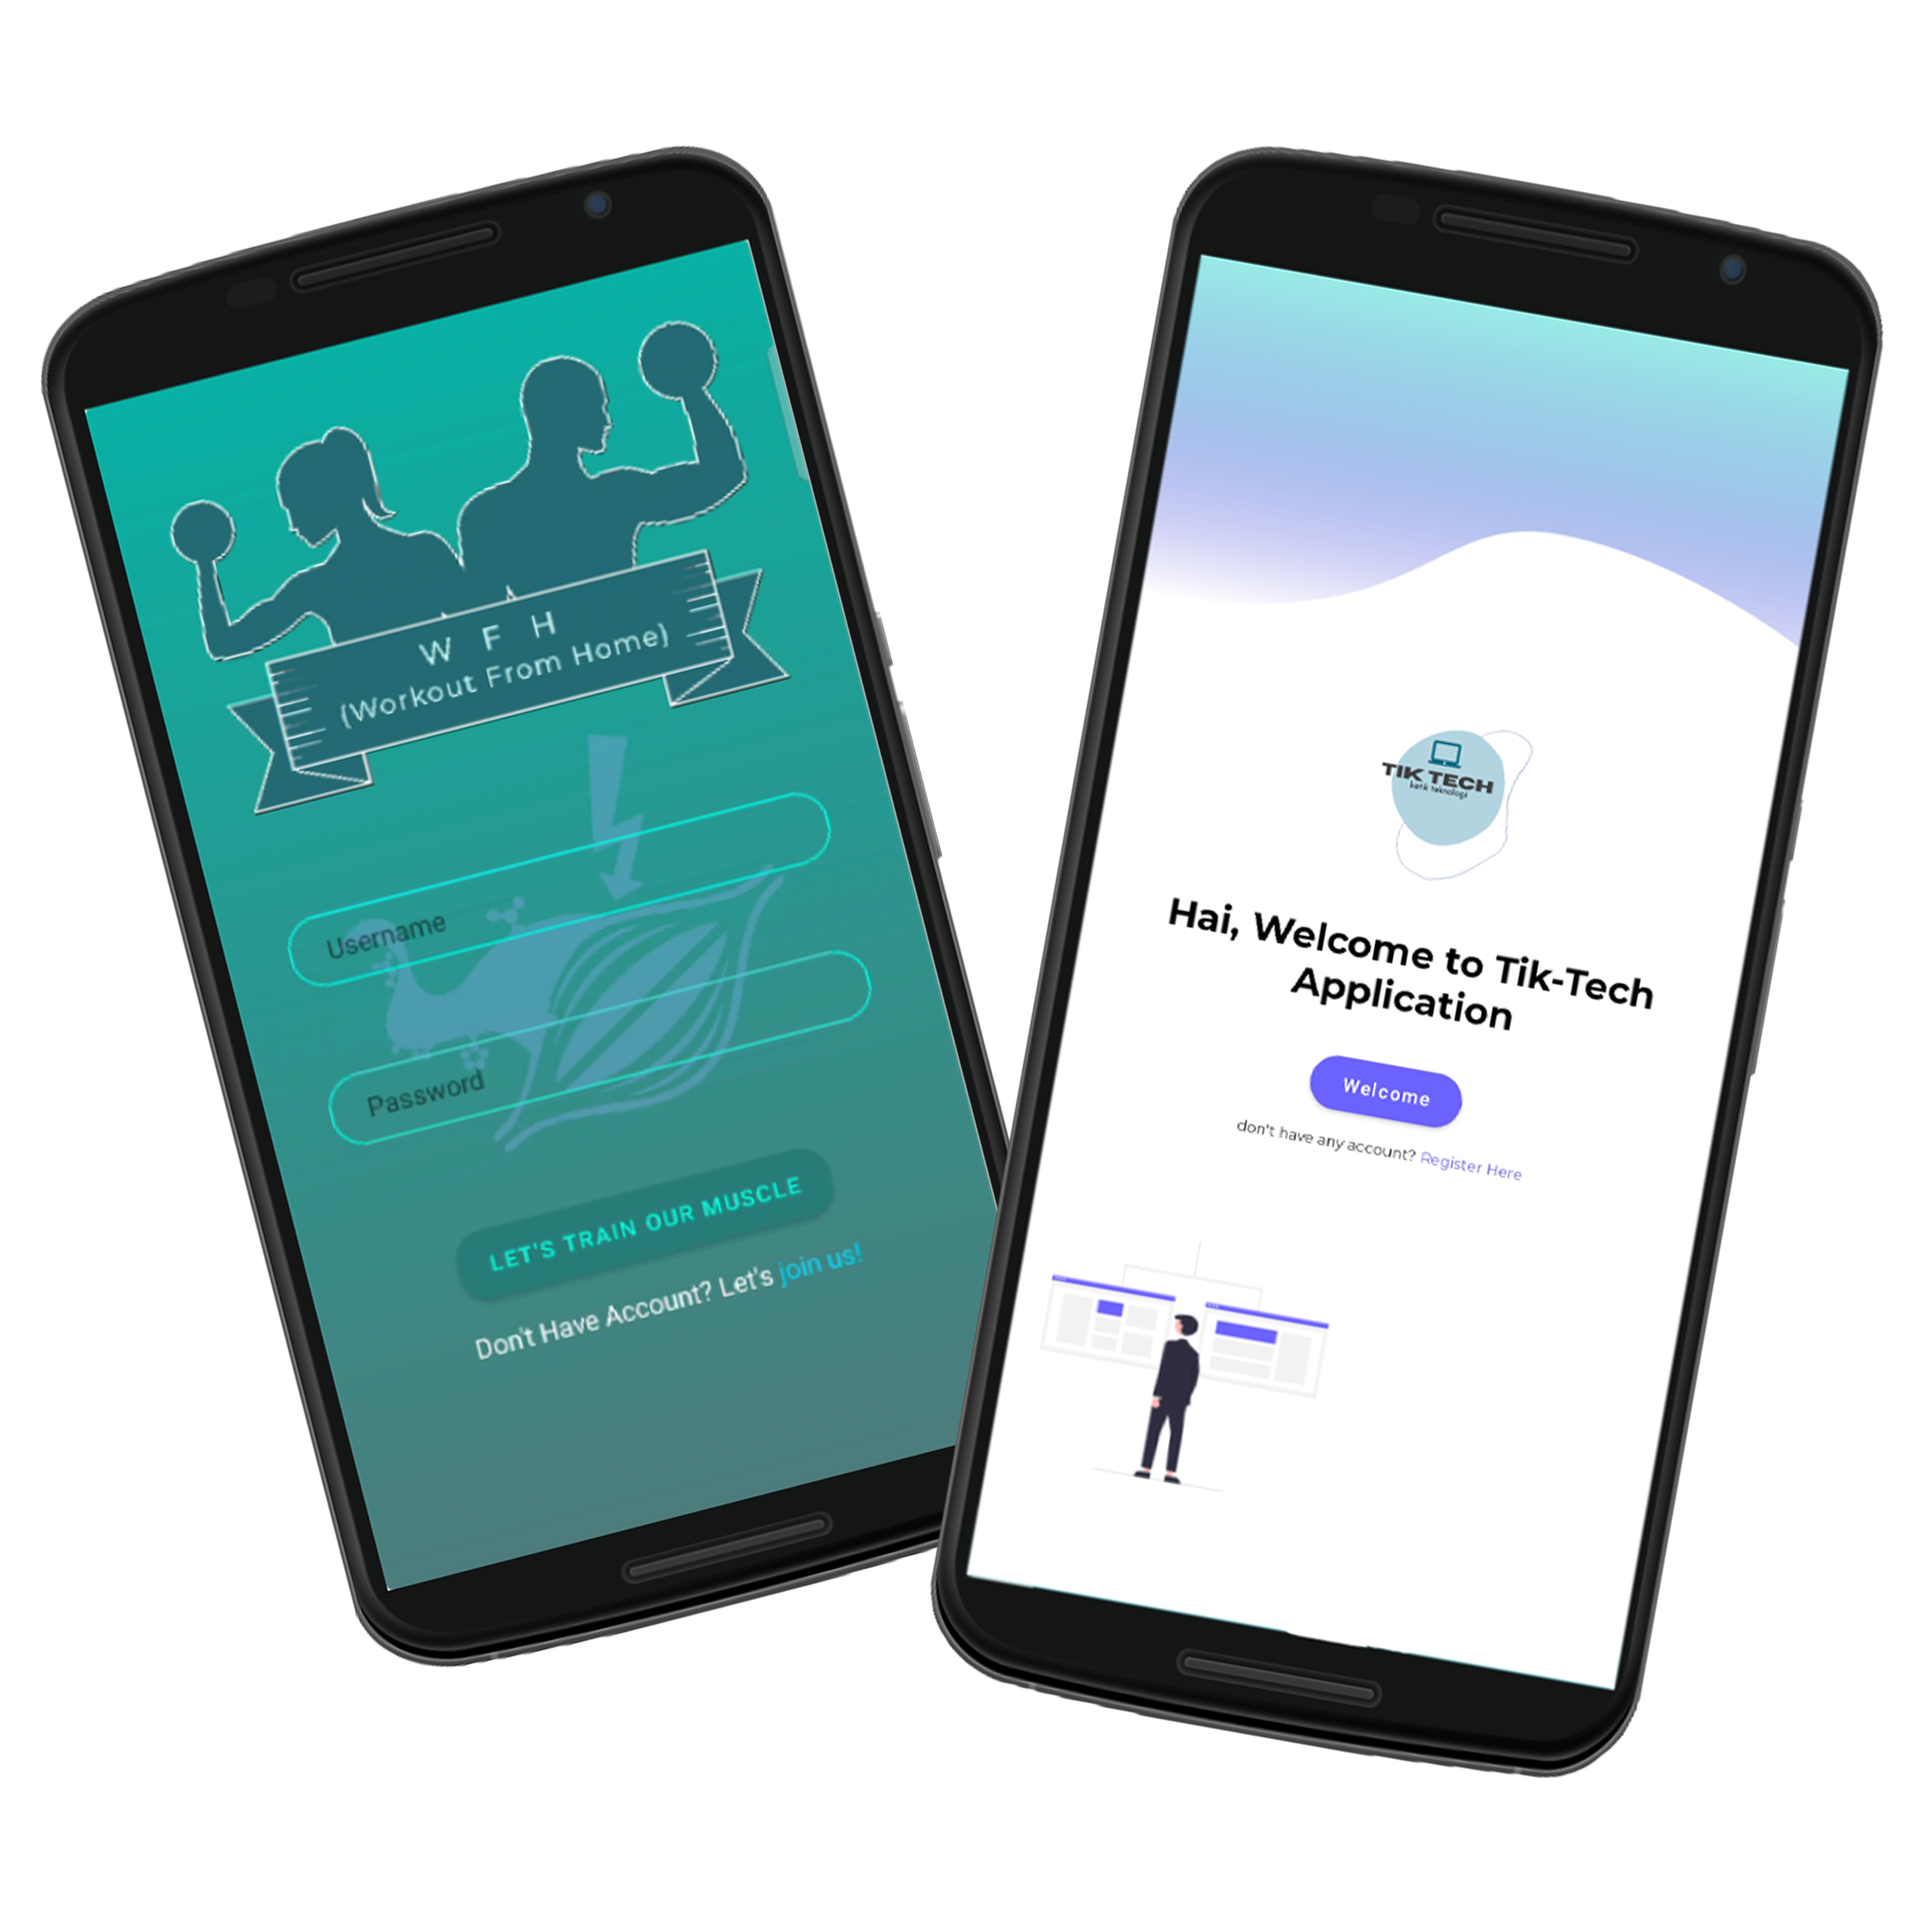
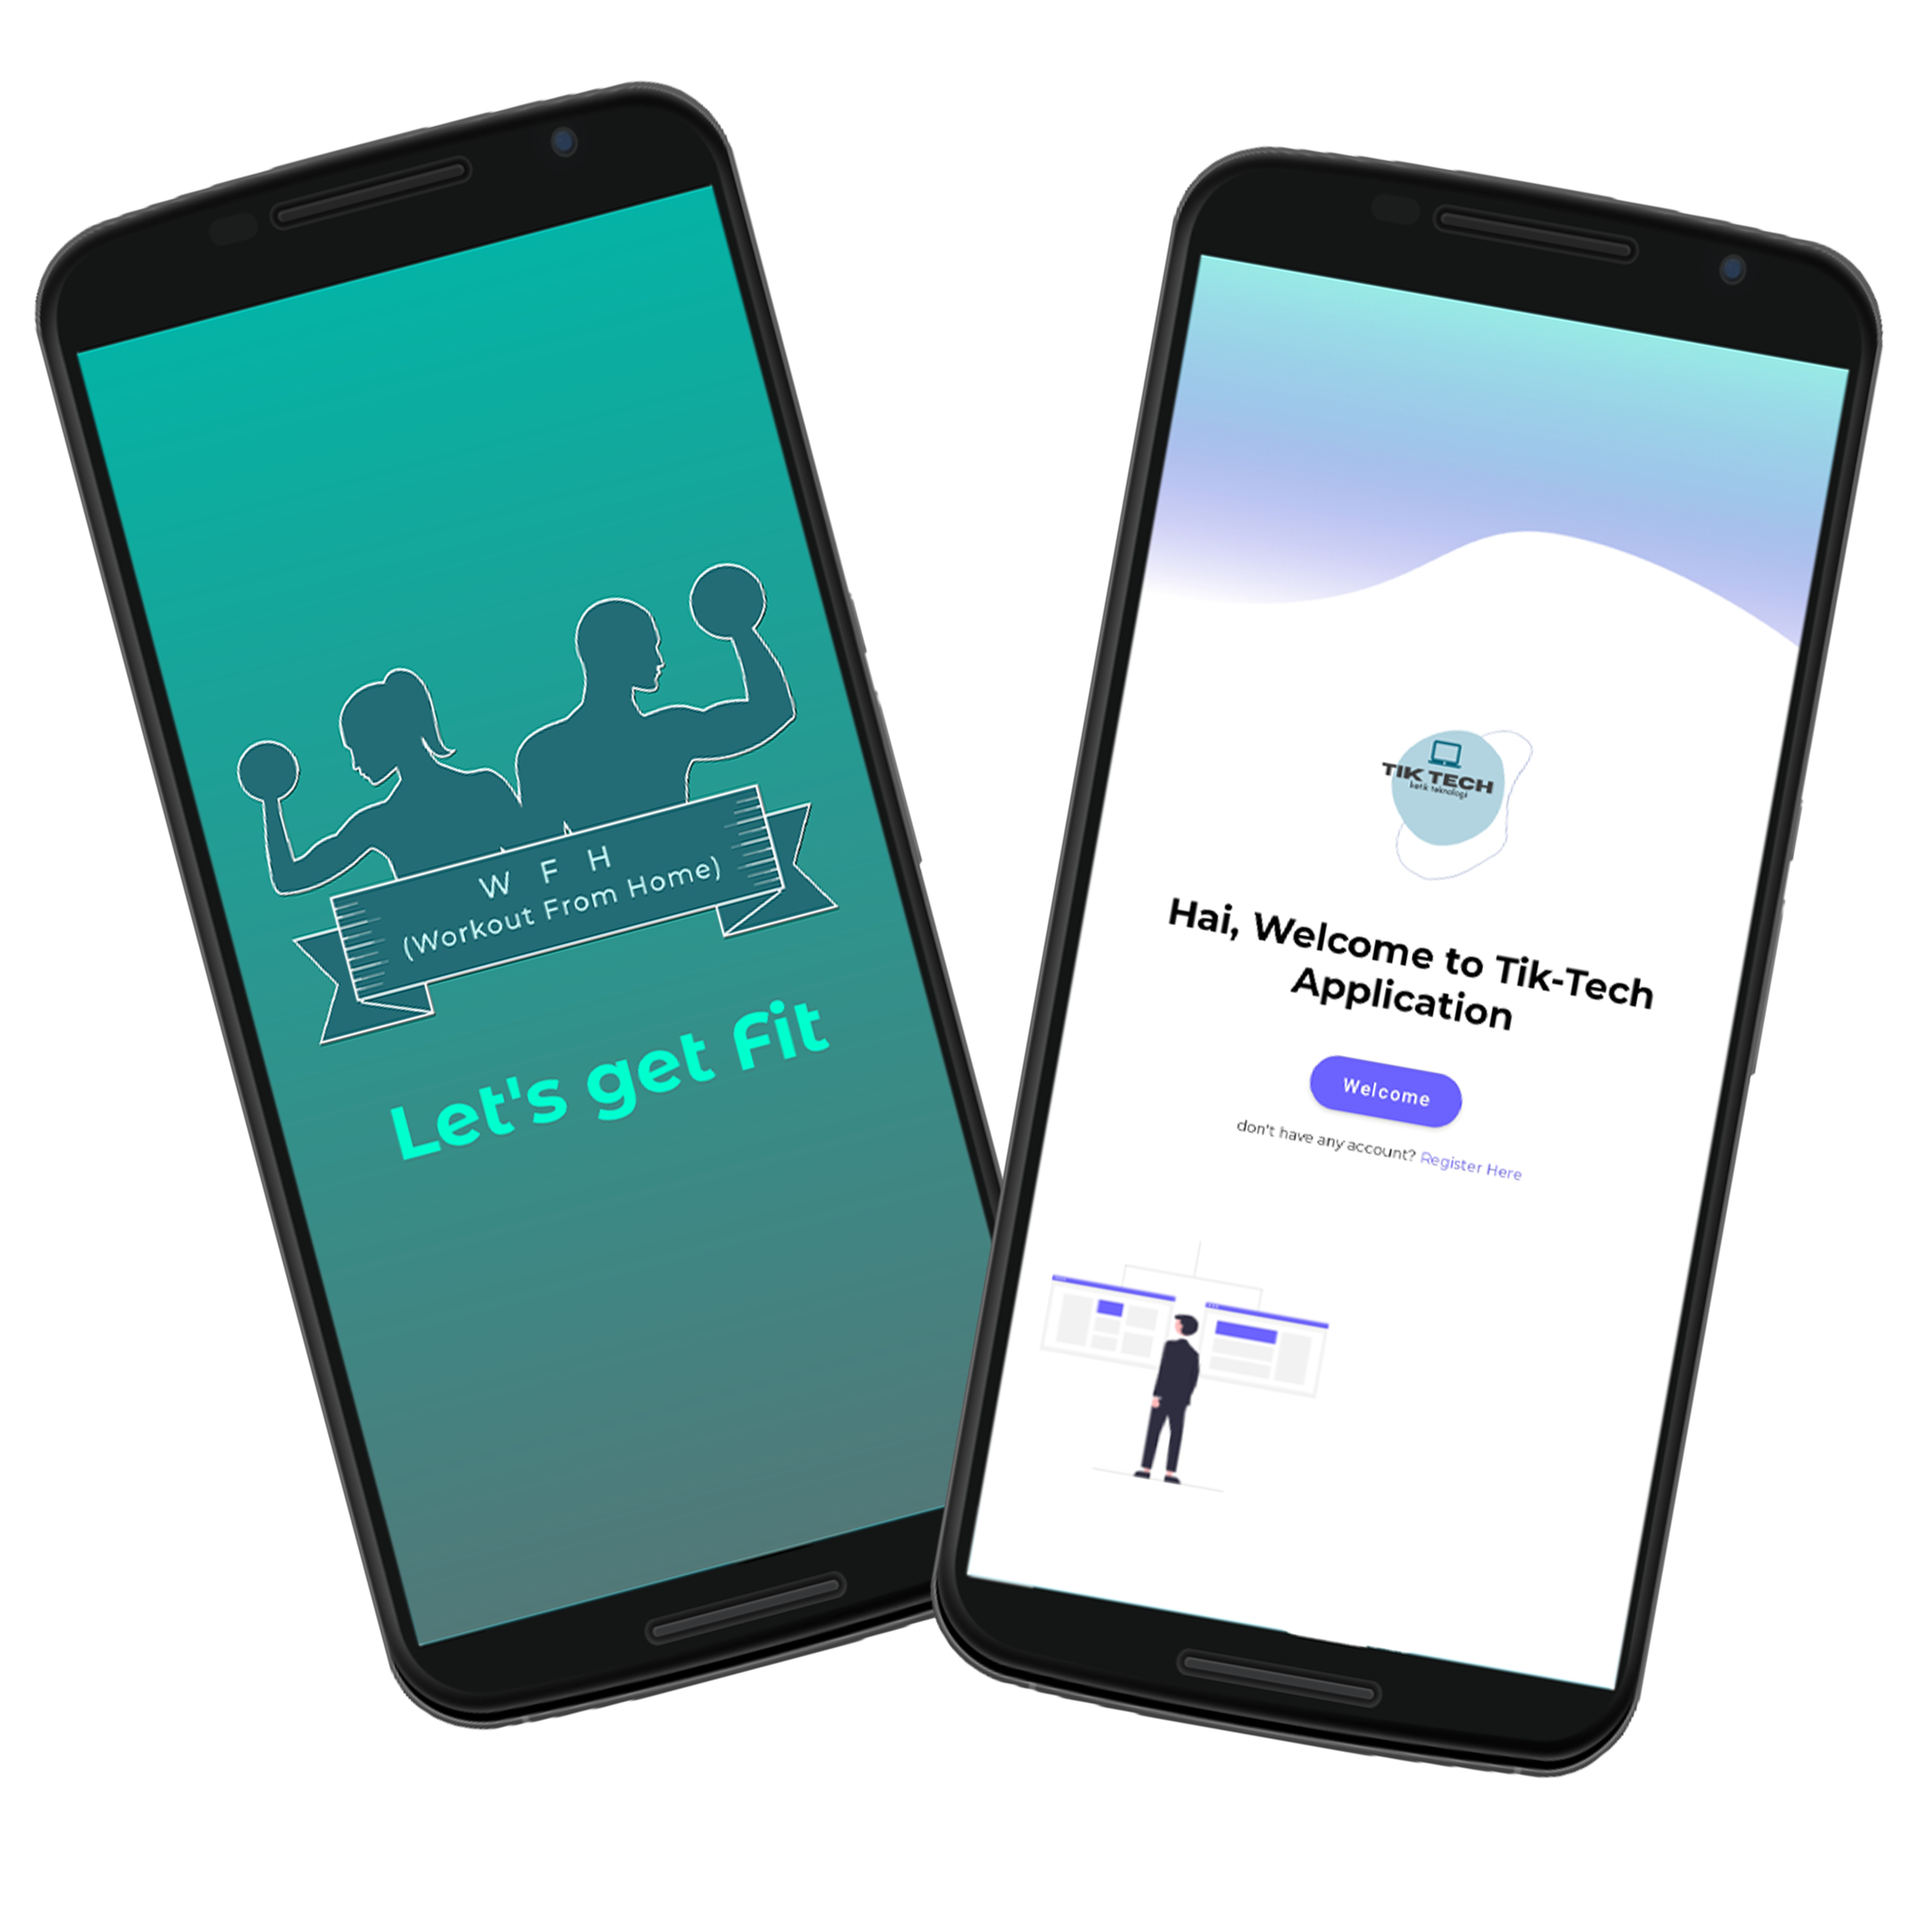
update

Changed region(s): [[0.0, 0.031, 0.527, 0.899], [0.248, 0.62, 0.434, 0.713]]

diff --git a/WFH_page.html b/WFH_page.html
@@ -82,6 +82,11 @@
     <div class="row">
       <div class="col-md">
         <div class="text-start">
+          <img src="wfh/splashscreen.png" class="img-fluid" alt="...">
+        </div>
+      </div>
+      <div class="col-md">
+        <div class="text-start">
           <img src="wfh/login.png" class="img-fluid" alt="...">
         </div>
       </div>
@@ -95,13 +100,13 @@
           <img src="wfh/workout_selected.png" class="img-fluid" alt="...">
         </div>
       </div>
+    </div>
+    <div class="row" style="margin-top: 1%;">
       <div class="col-md">
         <div class="text-start">
           <img src="wfh/workout_days.png" class="img-fluid" alt="...">
         </div>
       </div>
-    </div>
-    <div class="row" style="margin-top: 1%;">
       <div class="col-md">
         <div class="text-start">
           <img src="wfh/workout_do.png" class="img-fluid" alt="...">
@@ -110,11 +115,6 @@
       <div class="col-md">
         <div class="text-start">
           <img src="wfh/post_like.png" class="img-fluid" alt="...">
-        </div>
-      </div>
-      <div class="col-md">
-        <div class="text-start">
-          <img src="wfh/post_delete.png" class="img-fluid" alt="...">
         </div>
       </div>
       <div class="col-md">
